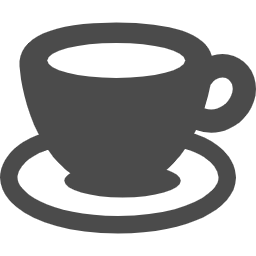
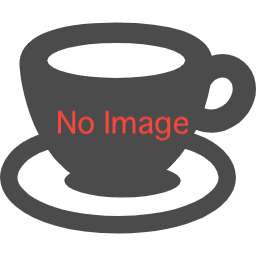
フッター復帰。画像をアルバムに表示するように

Changed region(s): [[0.4062, 0.4062, 0.75, 0.5625], [0.2188, 0.4062, 0.375, 0.5312]]

diff --git a/lib/ui/home_page.dart b/lib/ui/home_page.dart
@@ -74,25 +74,25 @@ class HomePage extends StatelessWidget {
           body: _pageWidgets.elementAt(_bottomIndex),
           floatingActionButton: _floatingActionButtons.elementAt(_bottomIndex),
           // フッター とりあえず不要そうなのでコメントアウト
-          // bottomNavigationBar: BottomNavigationBar(
-          //   items: const <BottomNavigationBarItem>[
-          //     BottomNavigationBarItem(
-          //       icon: Icon(Icons.home),
-          //       label: 'List',
-          //     ),
-          //     BottomNavigationBarItem(
-          //       icon: Icon(Icons.school),
-          //       label: 'School',
-          //     ),
-          //   ],
-          //   currentIndex: _bottomIndex,
-          //   selectedItemColor: Colors.amber[800],
-          //   onTap: (index) {
-          //     // フッターを押して画面切り替え
-          //     _bottomIndex = index;
-          //     model.refresh();
-          //   },
-          // ),
+          bottomNavigationBar: BottomNavigationBar(
+            items: const <BottomNavigationBarItem>[
+              BottomNavigationBarItem(
+                icon: Icon(Icons.home),
+                label: 'List',
+              ),
+              BottomNavigationBarItem(
+                icon: Icon(Icons.school),
+                label: 'Album',
+              ),
+            ],
+            currentIndex: _bottomIndex,
+            selectedItemColor: Colors.amber[800],
+            onTap: (index) {
+              // フッターを押して画面切り替え
+              _bottomIndex = index;
+              model.refresh();
+            },
+          ),
         );
       }),
     );

diff --git a/lib/view_model/card_model.dart b/lib/view_model/card_model.dart
@@ -76,7 +76,7 @@ class CardModel extends ChangeNotifier {
   }
 
   // 更新する情報をセットする
-  Map<String, dynamic> _setUpdateCard(CoffeeCard updateCard) {
+  Future<Map<String, dynamic>> _setUpdateCard(CoffeeCard updateCard) async {
     Map<String, dynamic> result = {};
     DateTime now = DateTime.now();
     result['updatedAt'] = now;
@@ -96,12 +96,17 @@ class CardModel extends ChangeNotifier {
     if (updateCard.score != null) {
       result['score'] = updateCard.score;
     }
+
+    if (imageFile != null) {
+      String imageUrl = await uploadImageUrl(updateCard);
+      result['imageUrl'] = imageUrl;
+    }
     return result;
   }
 
   Future<String> updateCard(CoffeeCard updateCard) async {
     // ドキュメント更新
-    Map<String, dynamic> updateData = _setUpdateCard(updateCard);
+    Map<String, dynamic> updateData = await _setUpdateCard(updateCard);
     final String docId = updateCard.id;
     if (docId == null) {
       print('aaaa');

diff --git a/lib/ui/add_or_edit_card_page.dart b/lib/ui/add_or_edit_card_page.dart
@@ -198,7 +198,6 @@ class AddOrEditCardPage extends StatelessWidget {
                                     score: _score,
                                     memo: _memo,
                                     isPublic: _isPublic,
-                                    imageUrl: _imageUrl,
                                     updatedAt: now,
                                     createdAt: now);
                                 final String addCardResult =
@@ -228,7 +227,6 @@ class AddOrEditCardPage extends StatelessWidget {
                                   score: _score,
                                   memo: _memo,
                                   isPublic: _isPublic,
-                                  imageUrl: _imageUrl,
                                 );
                                 final String updateCardResult =
                                     await model.updateCard(updateCard);

diff --git a/lib/ui/list_card.dart b/lib/ui/list_card.dart
@@ -68,14 +68,6 @@ class ListCard extends StatelessWidget {
         );
       }
     } else {
-      // if (_imageFile != null) {
-      //   return Container(
-      //     width: 100,
-      //     height: 100,
-      //     child: Image.file(_imageFile),
-      //   );
-      // }
-
       if (_imageUrl != null) {
         return Container(
           width: 100,
